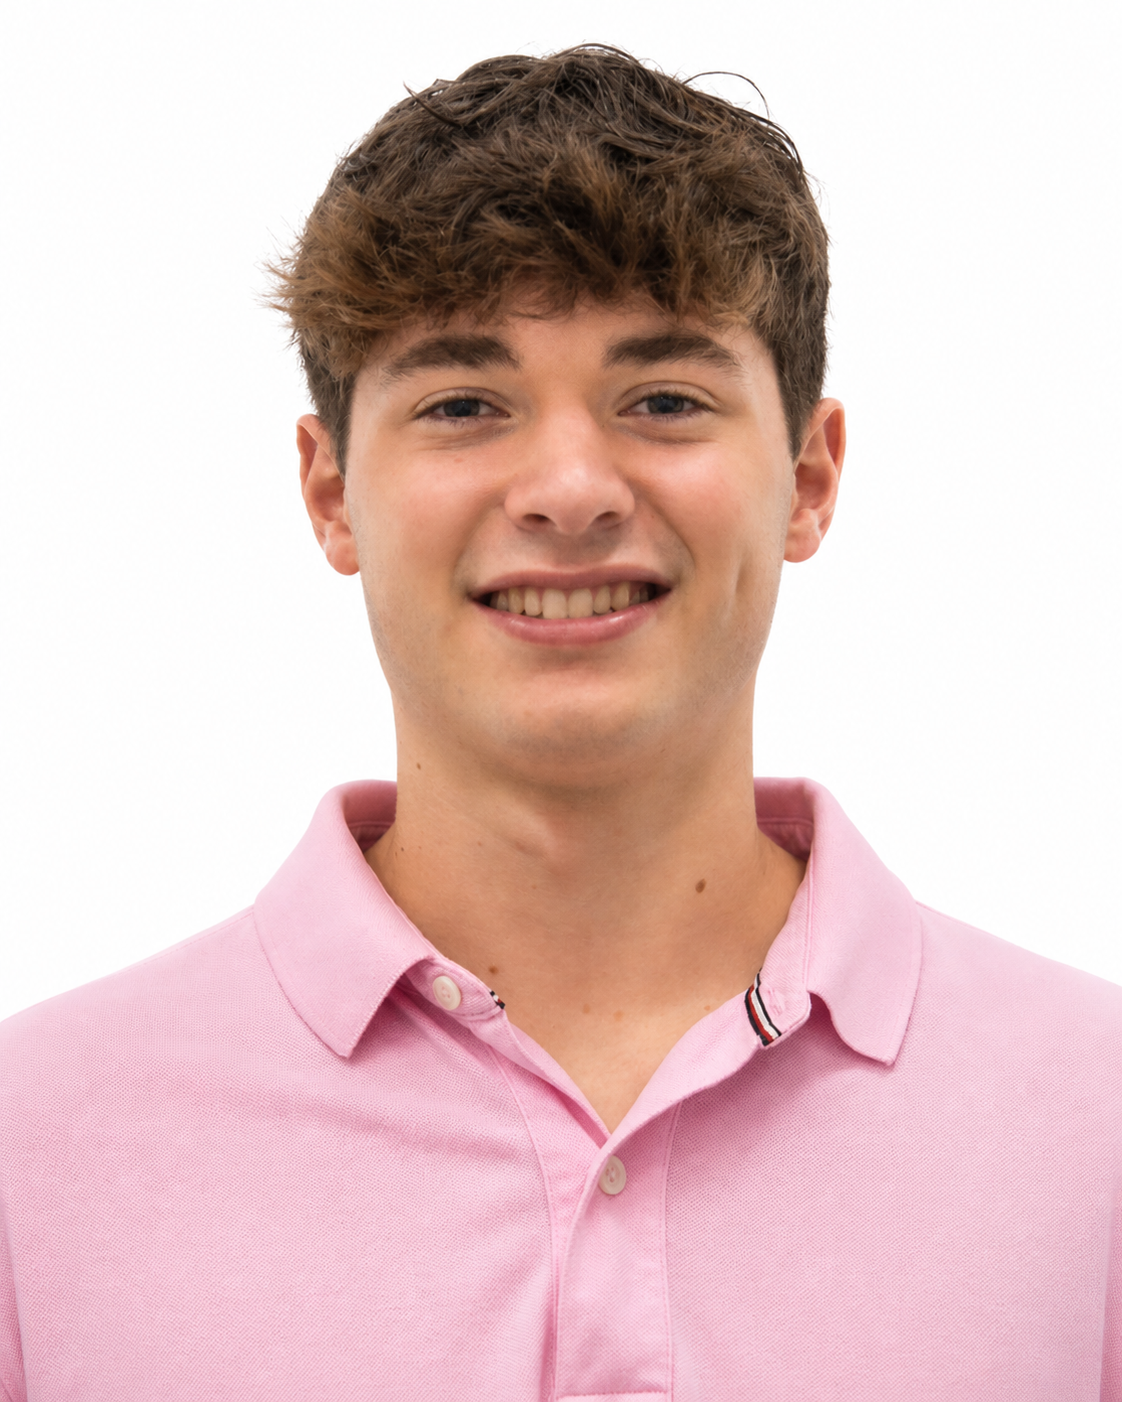
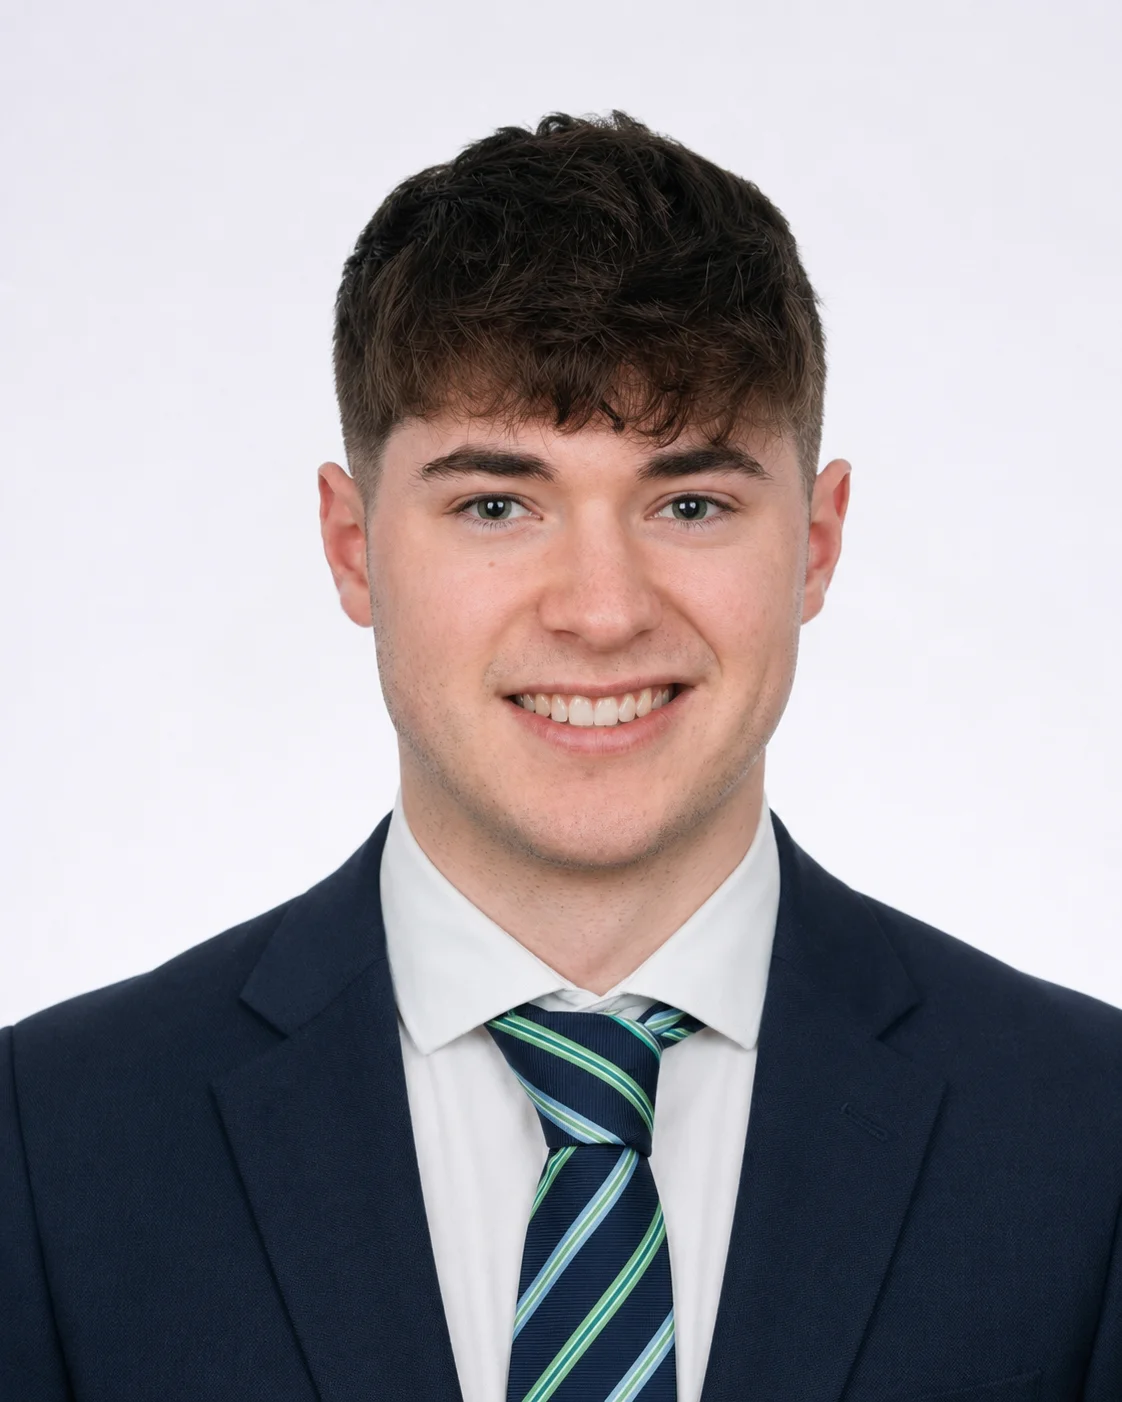
hecho lo de las fotos y nombres

diff --git a/equipo.html b/equipo.html
@@ -55,7 +55,7 @@
             
             <div class="team-member">
                 <img src="img/miembros/marcos.webp" alt="Marcos Pascual" class="team-avatar">
-                <h3>Marcos Pascual</h3>
+                <h3>Marcos Pascual Rodríguez</h3>
                 <p class="role">Presidente</p>
                 <p class="bio">Coordinación del equipo y gestión interna.</p>
             </div>
@@ -76,16 +76,23 @@
 
             <div class="team-member">
               <img src="img/miembros/user.webp" alt="Sergio Mangas" class="team-avatar">
-              <h3>Sergio Mangas</h3>
+              <h3>Sergio Mangas Rodríguez</h3>
               <p class="role">Tesorero</p>
               <p class="bio">Gestión financiera, subvenciones y presupuestos anuales.</p>
             </div>
 
             <div class="team-member">
               <img src="img/miembros/maria.webp" alt="María Cea" class="team-avatar">
-              <h3>María Cea</h3>
-              <p class="role">Coord. Comunicación</p>
+              <h3>María Cea García</h3>
+              <p class="role">Coord. de Comunicación</p>
               <p class="bio">Gestión de la comunicación y difusión de la asociación.</p>
+            </div>
+
+             <div class="team-member">
+              <img src="img/miembros/lucia_tod.webp" alt="Lucía Tod" class="team-avatar">
+              <h3>Lucía Todorovic Sljivic</h3>
+              <p class="role">Coord. de Eventops</p>
+              <p class="bio">Gestión de eventos y charlas presenciales.</p>
             </div>
 
              <div class="team-member">
